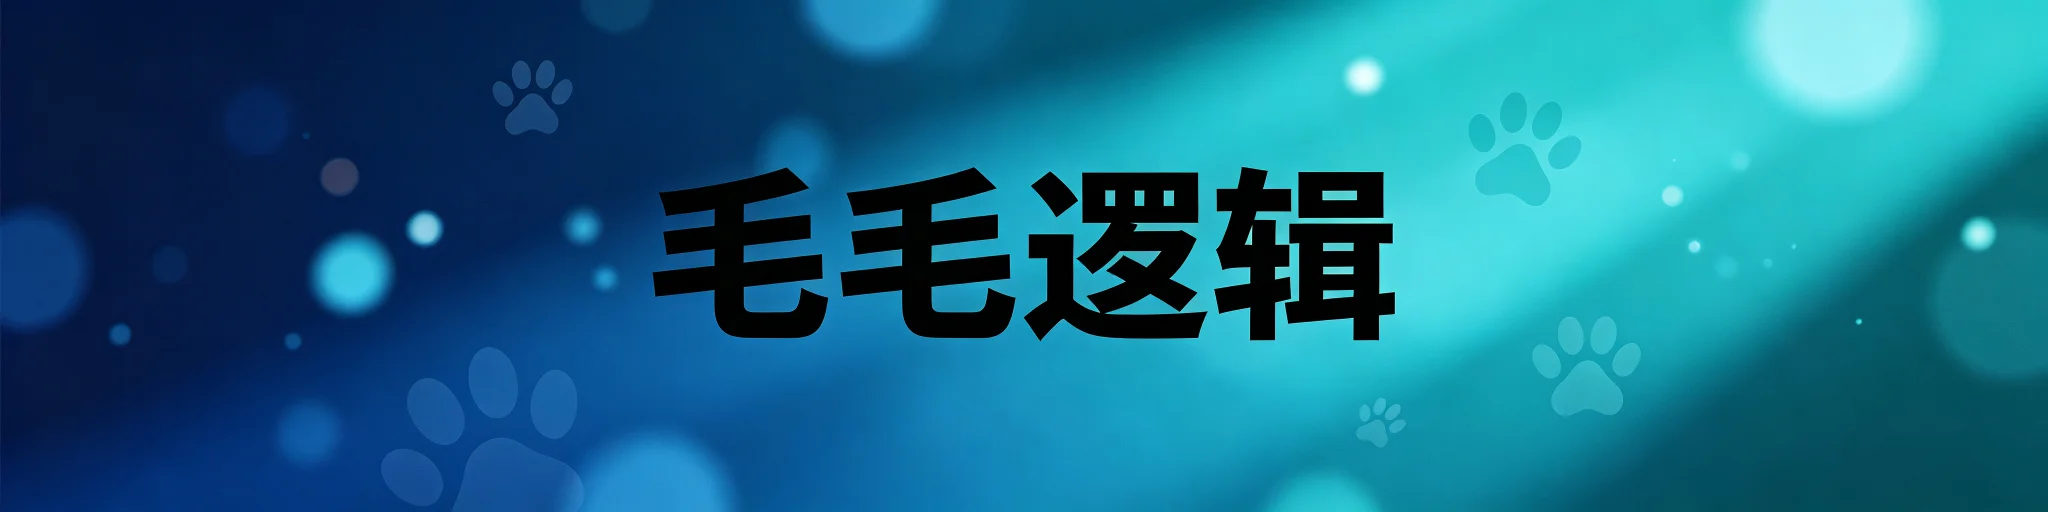
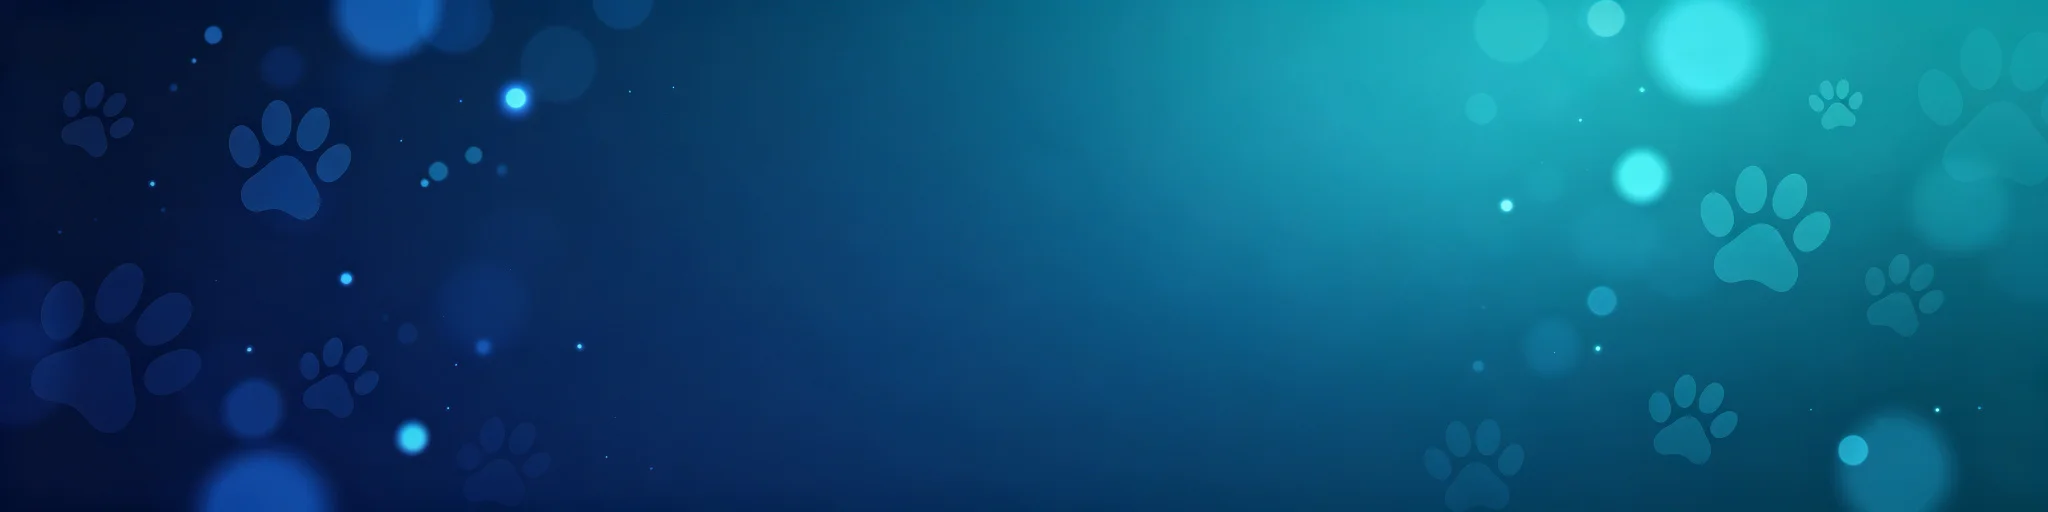
fix: header移除毛毛邏輯文字, site-logo移除🐾腳印icon

diff --git a/index.html b/index.html
@@ -79,7 +79,7 @@
 <!-- Header -->
 <header class="site-header" style="background-image:linear-gradient(rgba(15,25,35,0.6),rgba(15,25,35,0.75)),url('images/header-default.webp');">
   <div class="header-inner">
-    <a href="index.html" class="site-logo"><span class="paw">🐾</span>毛毛邏輯 寵物知識百科</a>
+    <a href="index.html" class="site-logo">毛毛邏輯 寵物知識百科</a>
     <nav class="site-nav">
       <a href="index.html">🏠 首頁</a>
       <a href="blog.html">📚 文章總覽</a>

diff --git a/posts/post-001.html b/posts/post-001.html
@@ -59,7 +59,7 @@
 
 <header class="site-header" style="background-image:linear-gradient(rgba(15,25,35,0.6),rgba(15,25,35,0.75)),url('../images/header-default.webp');">
   <div class="header-inner">
-    <a href="../index.html" class="site-logo"><span class="paw">🐾</span>毛毛邏輯 寵物知識百科</a>
+    <a href="../index.html" class="site-logo">毛毛邏輯 寵物知識百科</a>
     <nav class="site-nav">
       <a href="../index.html">🏠 首頁</a>
       <a href="../blog.html">📚 文章總覽</a>

diff --git a/posts/post-002.html b/posts/post-002.html
@@ -59,7 +59,7 @@
 
 <header class="site-header" style="background-image:linear-gradient(rgba(15,25,35,0.6),rgba(15,25,35,0.75)),url('../images/header-default.webp');">
   <div class="header-inner">
-    <a href="../index.html" class="site-logo"><span class="paw">🐾</span>毛毛邏輯 寵物知識百科</a>
+    <a href="../index.html" class="site-logo">毛毛邏輯 寵物知識百科</a>
     <nav class="site-nav">
       <a href="../index.html">🏠 首頁</a>
       <a href="../blog.html">📚 文章總覽</a>

diff --git a/posts/post-003.html b/posts/post-003.html
@@ -59,7 +59,7 @@
 
 <header class="site-header" style="background-image:linear-gradient(rgba(15,25,35,0.6),rgba(15,25,35,0.75)),url('../images/header-default.webp');">
   <div class="header-inner">
-    <a href="../index.html" class="site-logo"><span class="paw">🐾</span>毛毛邏輯 寵物知識百科</a>
+    <a href="../index.html" class="site-logo">毛毛邏輯 寵物知識百科</a>
     <nav class="site-nav">
       <a href="../index.html">🏠 首頁</a>
       <a href="../blog.html">📚 文章總覽</a>

diff --git a/posts/post-004.html b/posts/post-004.html
@@ -59,7 +59,7 @@
 
 <header class="site-header" style="background-image:linear-gradient(rgba(15,25,35,0.6),rgba(15,25,35,0.75)),url('../images/header-default.webp');">
   <div class="header-inner">
-    <a href="../index.html" class="site-logo"><span class="paw">🐾</span>毛毛邏輯 寵物知識百科</a>
+    <a href="../index.html" class="site-logo">毛毛邏輯 寵物知識百科</a>
     <nav class="site-nav">
       <a href="../index.html">🏠 首頁</a>
       <a href="../blog.html">📚 文章總覽</a>

diff --git a/posts/post-005.html b/posts/post-005.html
@@ -59,7 +59,7 @@
 
 <header class="site-header" style="background-image:linear-gradient(rgba(15,25,35,0.6),rgba(15,25,35,0.75)),url('../images/header-default.webp');">
   <div class="header-inner">
-    <a href="../index.html" class="site-logo"><span class="paw">🐾</span>毛毛邏輯 寵物知識百科</a>
+    <a href="../index.html" class="site-logo">毛毛邏輯 寵物知識百科</a>
     <nav class="site-nav">
       <a href="../index.html">🏠 首頁</a>
       <a href="../blog.html">📚 文章總覽</a>

diff --git a/posts/post-006.html b/posts/post-006.html
@@ -59,7 +59,7 @@
 
 <header class="site-header" style="background-image:linear-gradient(rgba(15,25,35,0.6),rgba(15,25,35,0.75)),url('../images/header-default.webp');">
   <div class="header-inner">
-    <a href="../index.html" class="site-logo"><span class="paw">🐾</span>毛毛邏輯 寵物知識百科</a>
+    <a href="../index.html" class="site-logo">毛毛邏輯 寵物知識百科</a>
     <nav class="site-nav">
       <a href="../index.html">🏠 首頁</a>
       <a href="../blog.html">📚 文章總覽</a>

diff --git a/posts/post-007.html b/posts/post-007.html
@@ -59,7 +59,7 @@
 
 <header class="site-header" style="background-image:linear-gradient(rgba(15,25,35,0.6),rgba(15,25,35,0.75)),url('../images/header-default.webp');">
   <div class="header-inner">
-    <a href="../index.html" class="site-logo"><span class="paw">🐾</span>毛毛邏輯 寵物知識百科</a>
+    <a href="../index.html" class="site-logo">毛毛邏輯 寵物知識百科</a>
     <nav class="site-nav">
       <a href="../index.html">🏠 首頁</a>
       <a href="../blog.html">📚 文章總覽</a>

diff --git a/posts/post-008.html b/posts/post-008.html
@@ -59,7 +59,7 @@
 
 <header class="site-header" style="background-image:linear-gradient(rgba(15,25,35,0.6),rgba(15,25,35,0.75)),url('../images/header-default.webp');">
   <div class="header-inner">
-    <a href="../index.html" class="site-logo"><span class="paw">🐾</span>毛毛邏輯 寵物知識百科</a>
+    <a href="../index.html" class="site-logo">毛毛邏輯 寵物知識百科</a>
     <nav class="site-nav">
       <a href="../index.html">🏠 首頁</a>
       <a href="../blog.html">📚 文章總覽</a>

diff --git a/posts/post-009.html b/posts/post-009.html
@@ -59,7 +59,7 @@
 
 <header class="site-header" style="background-image:linear-gradient(rgba(15,25,35,0.6),rgba(15,25,35,0.75)),url('../images/header-default.webp');">
   <div class="header-inner">
-    <a href="../index.html" class="site-logo"><span class="paw">🐾</span>毛毛邏輯 寵物知識百科</a>
+    <a href="../index.html" class="site-logo">毛毛邏輯 寵物知識百科</a>
     <nav class="site-nav">
       <a href="../index.html">🏠 首頁</a>
       <a href="../blog.html">📚 文章總覽</a>

diff --git a/posts/post-010.html b/posts/post-010.html
@@ -59,7 +59,7 @@
 
 <header class="site-header" style="background-image:linear-gradient(rgba(15,25,35,0.6),rgba(15,25,35,0.75)),url('../images/header-default.webp');">
   <div class="header-inner">
-    <a href="../index.html" class="site-logo"><span class="paw">🐾</span>毛毛邏輯 寵物知識百科</a>
+    <a href="../index.html" class="site-logo">毛毛邏輯 寵物知識百科</a>
     <nav class="site-nav">
       <a href="../index.html">🏠 首頁</a>
       <a href="../blog.html">📚 文章總覽</a>

diff --git a/posts/post-011.html b/posts/post-011.html
@@ -59,7 +59,7 @@
 
 <header class="site-header" style="background-image:linear-gradient(rgba(15,25,35,0.6),rgba(15,25,35,0.75)),url('../images/header-default.webp');">
   <div class="header-inner">
-    <a href="../index.html" class="site-logo"><span class="paw">🐾</span>毛毛邏輯 寵物知識百科</a>
+    <a href="../index.html" class="site-logo">毛毛邏輯 寵物知識百科</a>
     <nav class="site-nav">
       <a href="../index.html">🏠 首頁</a>
       <a href="../blog.html">📚 文章總覽</a>
